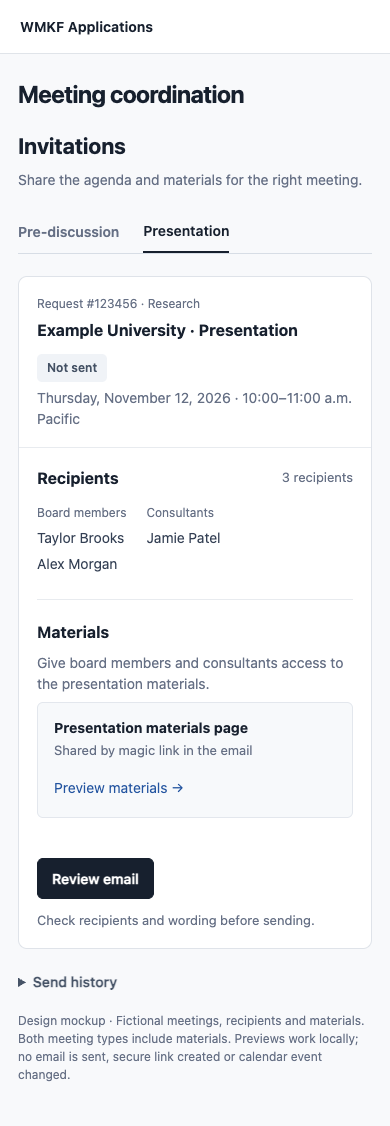
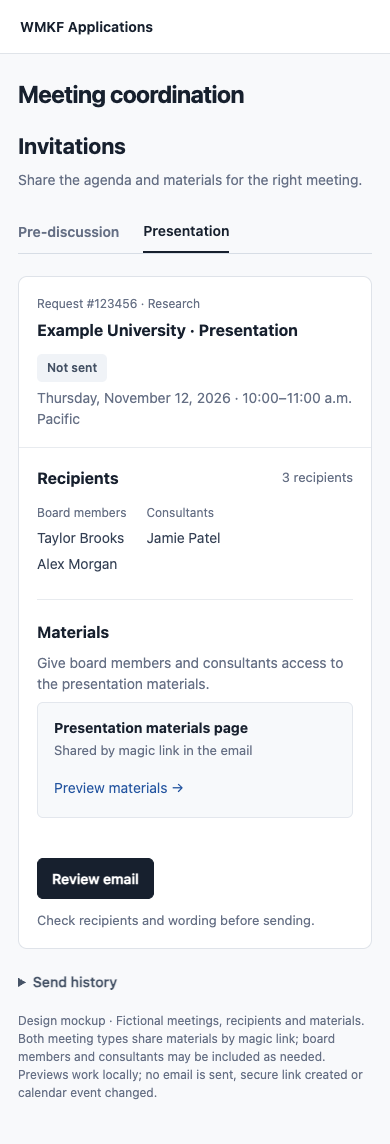
Include magic links and consultants for both invitation types

diff --git a/docs/plans/review/meeting-tracker-2026-10-20/invitations.html b/docs/plans/review/meeting-tracker-2026-10-20/invitations.html
@@ -3,10 +3,10 @@
 *{box-sizing:border-box}body{margin:0;background:#f8f9fb;color:#17202e;font:14px/1.5 -apple-system,BlinkMacSystemFont,"Segoe UI",sans-serif}button,a{font:inherit}button{cursor:pointer}a{color:#2455a0;text-decoration:none}button:focus-visible,a:focus-visible{outline:3px solid #2563eb;outline-offset:3px}.top{background:white;border-bottom:1px solid #e0e4e9;padding:18px 32px;display:flex;gap:34px;align-items:center}.brand{font-weight:650}.top span:last-child{margin-left:auto;color:#657083}main{max-width:1240px;margin:auto;padding:28px 32px}h1{font-size:27px;letter-spacing:-.6px;margin:0 0 24px}h2{font-size:22px;margin:0}h3{font-size:16px;margin:0}.workspace{display:grid;grid-template-columns:190px minmax(0,1fr);gap:32px}.nav small{display:block;color:#6b7280;margin:0 10px 8px}.nav a,.nav strong{display:block;padding:11px 12px;margin:3px 0;border-radius:6px;font-weight:500;color:#4b5563}.nav strong{background:#17202e;color:white}.nav .after{margin-top:25px}.sub{color:#667085;margin:6px 0 20px}.examples{display:flex;gap:6px;flex-wrap:wrap;margin-bottom:22px}.examples button{background:white;border:1px solid #d7dde5;padding:8px 13px;border-radius:6px;color:#475467}.examples button[aria-pressed=true]{border-color:#243b59;background:#edf2f8;color:#17202e;font-weight:600}.example-label{font-size:12px;color:#667085;margin-bottom:7px}.card{background:white;border:1px solid #dfe3e9;border-radius:9px;overflow:hidden}.identity{padding:24px;border-bottom:1px solid #e8ebef}.identity-top{display:flex;justify-content:space-between;align-items:start;gap:16px}.request{font-size:12px;color:#667085;margin-bottom:5px}.proposal{color:#667085;margin:5px 0 20px}.badge{padding:5px 10px;border-radius:5px;font-size:12px;font-weight:600;white-space:nowrap;background:#f0f3f7;color:#445164}.badge.complete{color:#22603d;background:#edf8f0}.badge.overdue{color:#9b382d;background:#fff0ed}.dates{display:grid;grid-template-columns:1fr 1fr;gap:18px}.label{display:block;font-size:12px;color:#667085;margin-bottom:4px}.date{font-weight:550}.deadline-note{font-size:12px;color:#667085;margin-top:3px}.content{padding:22px 24px}.section-head{display:flex;justify-content:space-between;align-items:center;margin-bottom:14px}.count{font-size:13px;color:#667085}.item{display:grid;grid-template-columns:minmax(0,1fr) 115px 55px;align-items:center;gap:15px;padding:17px 0;border-top:1px solid #e8ebef}.item-name{font-weight:550}.file{font-size:12px;color:#667085;margin-top:3px;overflow-wrap:anywhere}.status{font-size:13px;color:#667085}.status.received{color:#22603d}.open{border:0;background:none;color:#2455a0;padding:5px 0}.communication{border-top:1px solid #e8ebef;margin-top:8px;padding-top:20px}.recipients{display:flex;gap:30px;flex-wrap:wrap;margin:13px 0 18px}.recipients span{font-size:13px}.timeline{background:#f7f9fb;border-radius:6px;padding:14px 16px;font-size:13px}.timeline p{margin:0}.timeline p+p{margin-top:8px}.timeline strong{font-weight:600}.notice{margin-top:16px;padding:12px 14px;border-left:3px solid #dca65b;background:#fffbf3;font-size:13px}.notice.complete{border-color:#7aaf89;background:#f4faf5}.footer{color:#667085;font-size:12px;margin:20px 0}.demo-toast{margin:12px 0 0;color:#475467;font-size:13px;min-height:20px}@media(max-width:740px){.top{padding:16px 20px}.top .section,.top span:last-child{display:none}main{padding:22px 18px}.workspace{grid-template-columns:1fr;gap:18px}.nav{display:none}h1{font-size:24px;margin-bottom:18px}.identity,.content{padding:18px}.identity-top{display:block}.badge{display:inline-block;margin-top:12px}.dates{grid-template-columns:1fr;gap:12px}.item{grid-template-columns:minmax(0,1fr) 76px 38px;gap:8px}.examples button{padding:8px 10px;font-size:13px}.recipients{gap:14px}.section-head{gap:10px}.count{white-space:nowrap}}
 
 .switch{display:flex;gap:24px;border-bottom:1px solid #d7dde5;margin-bottom:22px}.switch button{border:0;background:none;padding:10px 0;font-weight:600;color:#667085}.switch button[aria-selected=true]{color:#17202e;border-bottom:2px solid #17202e}.group{padding:20px 0;border-top:1px solid #e8ebef}.group:first-child{padding-top:0;border:0}.group:last-child{padding-bottom:0}.group p{margin:8px 0;color:#667085}.recipient-grid{display:flex;gap:40px;flex-wrap:wrap;margin-top:12px}.recipient-grid p{margin:5px 0;color:#344054}.primary,.secondary{padding:9px 14px;border-radius:6px;border:1px solid #d7dde5;background:white;color:#344054;font-weight:550}.primary{background:#17202e;border-color:#17202e;color:white}.actions{display:flex;gap:12px;align-items:center;margin-top:20px}.agenda{padding:0;list-style:none;margin:12px 0}.agenda li{display:grid;grid-template-columns:70px 1fr;gap:12px;padding:10px 0;border-bottom:1px solid #edf0f3}.agenda time{color:#667085;font-size:13px}.agenda small{display:block;color:#667085}.material-link{background:#f7f9fb;border:1px solid #e3e7ed;border-radius:6px;padding:14px 16px;display:flex;justify-content:space-between;align-items:center;gap:12px}.material-link p{font-size:13px;margin:3px 0}.link-button{border:0;background:none;color:#2455a0;padding:5px 0;white-space:nowrap}.history{margin-top:22px}.history summary{cursor:pointer;font-weight:550;color:#475467}.history p{font-size:13px;color:#667085}.overlay{position:fixed;inset:0;background:#17202e66;z-index:10;display:flex;align-items:center;justify-content:center;padding:24px}.dialog{background:white;border-radius:10px;width:680px;max-height:90vh;overflow:auto;padding:26px;box-shadow:0 20px 60px #17202e33}.dialog-head{display:flex;align-items:center;justify-content:space-between;gap:15px}.close{border:0;background:#f2f4f7;border-radius:5px;padding:7px 12px}.email-field{display:block;margin:18px 0;font-size:13px;color:#475467}.email-field input,.email-field textarea{display:block;width:100%;font:inherit;color:#17202e;border:1px solid #cbd2dc;border-radius:5px;padding:10px;margin-top:6px}.email-field textarea{height:245px;resize:vertical}.preview-box{background:#f8fafc;border:1px solid #e1e6ed;border-radius:6px;padding:20px;margin-top:20px}.preview-box li{margin:10px 0}.muted{color:#667085;font-size:13px}[hidden]{display:none!important}@media(max-width:740px){.recipient-grid{gap:20px}.material-link{display:block}.material-link button{margin-top:8px}.overlay{padding:12px}.dialog{padding:18px}.dialog h2{font-size:19px}.actions{flex-wrap:wrap}}
-</style></head><body><header class="top"><span class="brand">WMKF Applications</span><span class="section">Workbench</span><strong class="section">Meeting Tracker</strong><span>Duncan</span></header><main><h1>Meeting coordination</h1><div class="workspace"><nav class="nav" aria-label="Coordination tasks"><small>Before the meeting</small><a href="meeting-setup.html">Meeting setup</a><strong aria-current="page">Invitations</strong><a href="materials-collection.html">Materials collection</a><small class="after">After the meeting</small><a href="preparation-workspace.html">Transcript preparation</a></nav><section><h2>Invitations</h2><p class="sub">Share the agenda and materials for the right meeting.</p><div class="switch" role="tablist" aria-label="Meeting type"><button id="tab-pre" role="tab" aria-selected="true" aria-controls="panel" data-kind="pre">Pre-discussion</button><button id="tab-presentation" role="tab" aria-selected="false" aria-controls="panel" data-kind="presentation" tabindex="-1">Presentation</button></div><article class="card" id="panel" role="tabpanel" aria-labelledby="tab-pre"><div class="identity"><div class="identity-top"><div><div class="request" id="eyebrow"></div><h3 id="meeting-title"></h3></div><span class="badge">Not sent</span></div><p class="proposal" id="meeting-meta" style="margin-bottom:0"></p></div><div class="content"><section class="group"><div class="section-head"><h3>Recipients</h3><span class="count" id="recipient-count"></span></div><div class="recipient-grid" id="recipients"></div></section><section class="group" id="agenda-section"><h3>Agenda</h3><ol class="agenda"><li><time>10:00 a.m.</time><div>Example University<small>Understanding cellular repair mechanisms</small></div></li><li><time>10:30 a.m.</time><div>Sample Research Institute<small>New approaches to molecular imaging</small></div></li><li><time>11:00 a.m.</time><div>Illustrative College<small>Mapping complex biological systems</small></div></li></ol></section><section class="group"><h3>Materials</h3><p id="materials-description"></p><div class="material-link"><div><strong id="materials-label"></strong><p id="materials-sub"></p></div><button class="link-button" id="preview-materials">Preview materials →</button></div></section><div class="actions"><button class="primary" id="review-email">Review email</button><span class="muted">Check recipients and wording before sending.</span></div></div></article><details class="history"><summary>Send history</summary><p id="history-text"></p></details><p class="footer">Design mockup · Fictional meetings, recipients and materials. Both meeting types include materials. Previews work locally; no email is sent, secure link created or calendar event changed.</p></section></div></main><div class="overlay" id="overlay" hidden><section class="dialog" role="dialog" aria-modal="true" aria-labelledby="dialog-title"><div class="dialog-head"><h2 id="dialog-title"></h2><button class="close" id="close">Close</button></div><div id="email-preview" hidden><p class="muted" id="email-recipients"></p><label class="email-field">Subject<input id="subject"></label><label class="email-field">Message<textarea id="message"></textarea></label><p class="muted">Layout preview only. Sending is not connected.</p></div><div id="materials-preview" hidden><div class="preview-box"><span class="label">Recipient view · Illustrative content</span><h3 id="preview-heading"></h3><p class="muted" id="preview-description"></p><div id="preview-list"></div></div><p class="muted">This represents the existing materials page. Document contents and access are not connected in this mockup.</p></div></section></div><script>
+</style></head><body><header class="top"><span class="brand">WMKF Applications</span><span class="section">Workbench</span><strong class="section">Meeting Tracker</strong><span>Duncan</span></header><main><h1>Meeting coordination</h1><div class="workspace"><nav class="nav" aria-label="Coordination tasks"><small>Before the meeting</small><a href="meeting-setup.html">Meeting setup</a><strong aria-current="page">Invitations</strong><a href="materials-collection.html">Materials collection</a><small class="after">After the meeting</small><a href="preparation-workspace.html">Transcript preparation</a></nav><section><h2>Invitations</h2><p class="sub">Share the agenda and materials for the right meeting.</p><div class="switch" role="tablist" aria-label="Meeting type"><button id="tab-pre" role="tab" aria-selected="true" aria-controls="panel" data-kind="pre">Pre-discussion</button><button id="tab-presentation" role="tab" aria-selected="false" aria-controls="panel" data-kind="presentation" tabindex="-1">Presentation</button></div><article class="card" id="panel" role="tabpanel" aria-labelledby="tab-pre"><div class="identity"><div class="identity-top"><div><div class="request" id="eyebrow"></div><h3 id="meeting-title"></h3></div><span class="badge">Not sent</span></div><p class="proposal" id="meeting-meta" style="margin-bottom:0"></p></div><div class="content"><section class="group"><div class="section-head"><h3>Recipients</h3><span class="count" id="recipient-count"></span></div><div class="recipient-grid" id="recipients"></div></section><section class="group" id="agenda-section"><h3>Agenda</h3><ol class="agenda"><li><time>10:00 a.m.</time><div>Example University<small>Understanding cellular repair mechanisms</small></div></li><li><time>10:30 a.m.</time><div>Sample Research Institute<small>New approaches to molecular imaging</small></div></li><li><time>11:00 a.m.</time><div>Illustrative College<small>Mapping complex biological systems</small></div></li></ol></section><section class="group"><h3>Materials</h3><p id="materials-description"></p><div class="material-link"><div><strong id="materials-label"></strong><p id="materials-sub"></p></div><button class="link-button" id="preview-materials">Preview materials →</button></div></section><div class="actions"><button class="primary" id="review-email">Review email</button><span class="muted">Check recipients and wording before sending.</span></div></div></article><details class="history"><summary>Send history</summary><p id="history-text"></p></details><p class="footer">Design mockup · Fictional meetings, recipients and materials. Both meeting types share materials by magic link; board members and consultants may be included as needed. Previews work locally; no email is sent, secure link created or calendar event changed.</p></section></div></main><div class="overlay" id="overlay" hidden><section class="dialog" role="dialog" aria-modal="true" aria-labelledby="dialog-title"><div class="dialog-head"><h2 id="dialog-title"></h2><button class="close" id="close">Close</button></div><div id="email-preview" hidden><p class="muted" id="email-recipients"></p><label class="email-field">Subject<input id="subject"></label><label class="email-field">Message<textarea id="message"></textarea></label><p class="muted">Layout preview only. Sending is not connected.</p></div><div id="materials-preview" hidden><div class="preview-box"><span class="label">Recipient view · Illustrative content</span><h3 id="preview-heading"></h3><p class="muted" id="preview-description"></p><div id="preview-list"></div></div><p class="muted">This represents the existing materials page. Document contents and access are not connected in this mockup.</p></div></section></div><script>
 const $=id=>document.getElementById(id);
 let kind='pre',opener;
-const data={pre:{eyebrow:'Staff and board · 3 requests',title:'Pre-discussion · November 3',meta:'Tuesday, November 3, 2026 · 10:00–11:30 a.m. Pacific',groups:[['Staff','Duncan','Avery Chen','Morgan Lee'],['Board members','Taylor Brooks','Alex Morgan']],description:'Materials for each request accompany the agenda.',label:'Pre-discussion materials',sub:'Organized by the three requests on the agenda',subject:'November 3 pre-discussion — agenda and materials',message:'Hello everyone,\n\nOur pre-discussion is Tuesday, November 3, from 10:00 to 11:30 a.m. Pacific.\n\nAgenda\n10:00 — Example University\n10:30 — Sample Research Institute\n11:00 — Illustrative College\n\nPlease review the materials for each request before the meeting.\n[Access pre-discussion materials]\n\nThank you,\nDuncan',materials:['Example University','Sample Research Institute','Illustrative College']},presentation:{eyebrow:'Request #123456 · Research',title:'Example University · Presentation',meta:'Thursday, November 12, 2026 · 10:00–11:00 a.m. Pacific',groups:[['Board members','Taylor Brooks','Alex Morgan'],['Consultants','Jamie Patel']],description:'Give board members and consultants access to the presentation materials.',label:'Presentation materials page',sub:'Shared by magic link in the email',subject:'Example University — presentation materials for November 12',message:'Hello everyone,\n\nExample University will present on Thursday, November 12, from 10:00 to 11:00 a.m. Pacific.\n\nPlease use the link below to review the materials before the presentation.\n[Secure materials link]\n\nThank you,\nDuncan',materials:['Briefing (provisional name)','Attendee bios','Presentation slides (PDF)']}};
+const data={pre:{eyebrow:'Pre-discussion · 3 requests',title:'Pre-discussion · November 3',meta:'Tuesday, November 3, 2026 · 10:00–11:30 a.m. Pacific',groups:[['Staff','Duncan','Avery Chen','Morgan Lee'],['Board members','Taylor Brooks','Alex Morgan'],['Consultants','Jamie Patel']],description:'Share the agenda and request materials with staff, board members and consultants.',label:'Pre-discussion materials',sub:'Magic link · Materials organized by agenda request',subject:'November 3 pre-discussion — agenda and materials',message:'Hello everyone,\n\nOur pre-discussion is Tuesday, November 3, from 10:00 to 11:30 a.m. Pacific.\n\nAgenda\n10:00 — Example University\n10:30 — Sample Research Institute\n11:00 — Illustrative College\n\nPlease review the materials for each request before the meeting.\n[Secure pre-discussion materials link]\n\nThank you,\nDuncan',materials:['Example University','Sample Research Institute','Illustrative College']},presentation:{eyebrow:'Request #123456 · Research',title:'Example University · Presentation',meta:'Thursday, November 12, 2026 · 10:00–11:00 a.m. Pacific',groups:[['Board members','Taylor Brooks','Alex Morgan'],['Consultants','Jamie Patel']],description:'Give board members and consultants access to the presentation materials.',label:'Presentation materials page',sub:'Shared by magic link in the email',subject:'Example University — presentation materials for November 12',message:'Hello everyone,\n\nExample University will present on Thursday, November 12, from 10:00 to 11:00 a.m. Pacific.\n\nPlease use the link below to review the materials before the presentation.\n[Secure materials link]\n\nThank you,\nDuncan',materials:['Briefing (provisional name)','Attendee bios','Presentation slides (PDF)']}};
 function render(){const d=data[kind];document.querySelectorAll('[data-kind]').forEach(b=>{b.setAttribute('aria-selected',String(b.dataset.kind===kind));b.tabIndex=b.dataset.kind===kind?0:-1;});$('panel').setAttribute('aria-labelledby',kind==='pre'?'tab-pre':'tab-presentation');$('eyebrow').textContent=d.eyebrow;$('meeting-title').textContent=d.title;$('meeting-meta').textContent=d.meta;$('recipient-count').textContent=d.groups.reduce((n,g)=>n+g.length-1,0)+' recipients';$('recipients').replaceChildren();for(const [label,...names]of d.groups){const group=document.createElement('div');const heading=document.createElement('span');heading.className='label';heading.textContent=label;group.append(heading);for(const name of names){const p=document.createElement('p');p.textContent=name;group.append(p);}$('recipients').append(group);}$('agenda-section').hidden=kind!=='pre';$('materials-description').textContent=d.description;$('materials-label').textContent=d.label;$('materials-sub').textContent=d.sub;$('history-text').textContent='No '+(kind==='pre'?'agenda and materials':'presentation materials')+' email has been sent in this example.';}
 function show(mode){opener=document.activeElement;const d=data[kind];$('dialog-title').textContent=mode==='email'?'Review '+(kind==='pre'?'agenda and materials':'presentation materials')+' email':d.label;$('email-preview').hidden=mode!=='email';$('materials-preview').hidden=mode!=='materials';$('email-recipients').textContent='To: '+d.groups.flatMap(g=>g.slice(1)).join(', ');$('subject').value=d.subject;$('message').value=d.message;$('preview-heading').textContent=d.title;$('preview-description').textContent=kind==='pre'?'Each agenda request opens its own materials.':'Example document list for layout review.';$('preview-list').replaceChildren();const ul=document.createElement('ul');for(const name of d.materials){const li=document.createElement('li');li.textContent=name+(kind==='pre'?' — briefing and supporting materials':'');ul.append(li);}$('preview-list').append(ul);$('overlay').hidden=false;$('close').focus();}
 function close(){ $('overlay').hidden=true;opener?.focus();}
